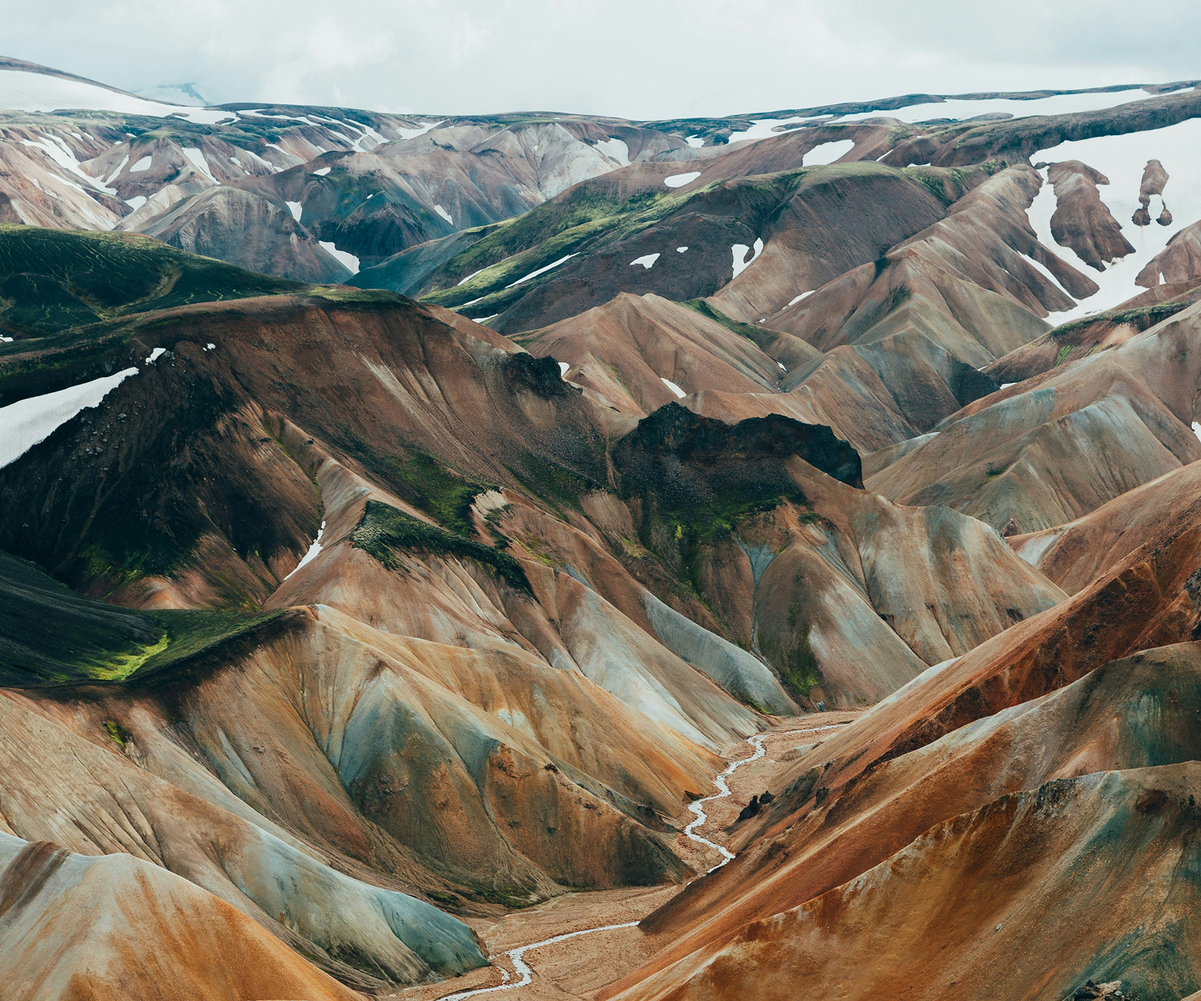
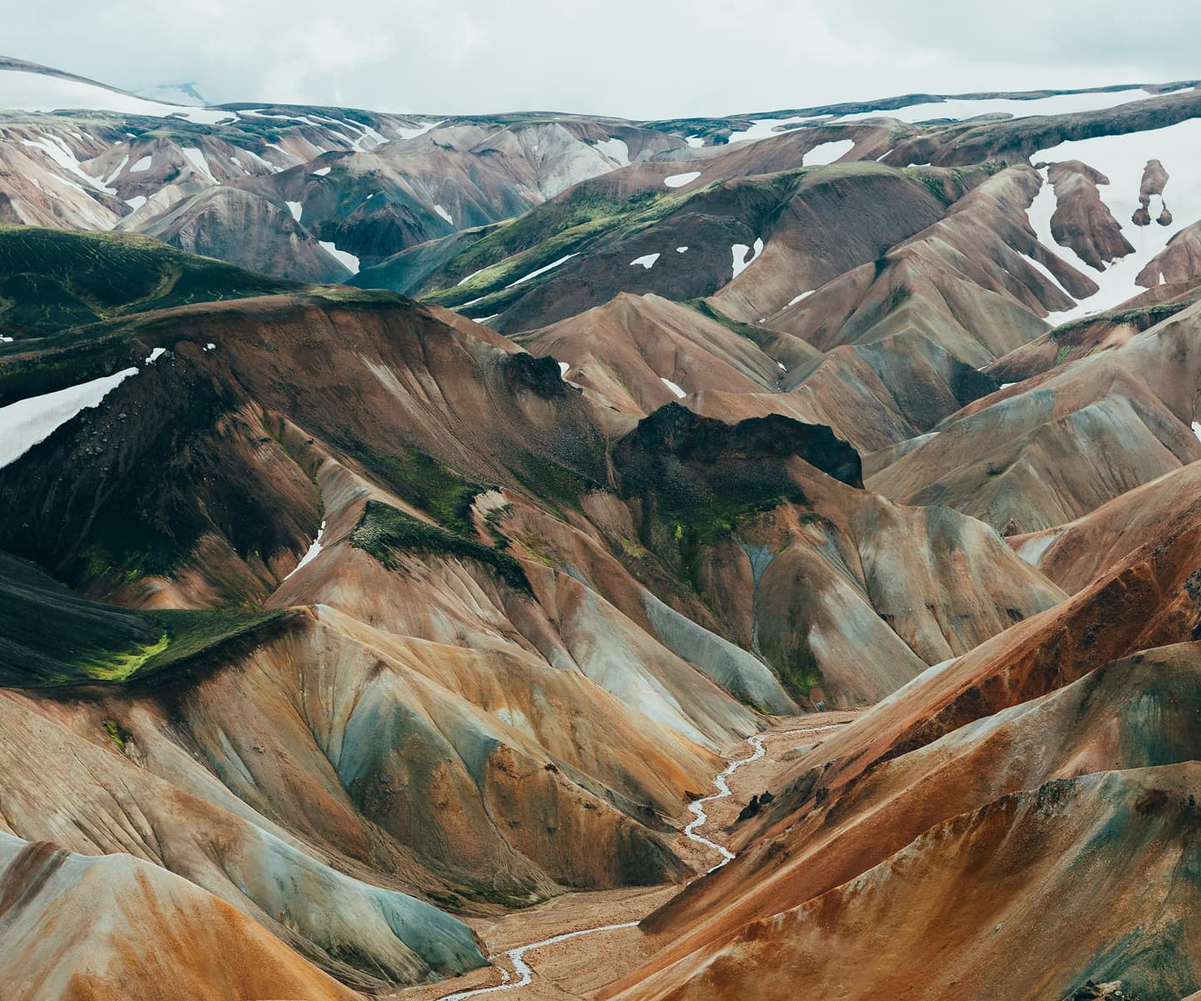
Optimized images and added comments

Changed region(s): [[0.4062, 0.9558, 0.4375, 0.9867]]

diff --git a/assets/css/styles.css b/assets/css/styles.css
@@ -1,1 +1,7 @@
-html{font-family:"DM Sans",sans-serif;scroll-padding-top:40px}body{padding:0;margin:0;box-sizing:border-box}h1,h2,h3,h4,h5,h6{margin:0}a{color:#000;text-decoration:underline}a:hover{text-decoration:none}p{margin:0}ul{margin:0;padding:0;list-style:none}ul li{list-style:none}ul ol{margin:0;padding:0}img{max-width:100%}figure{margin:0}.l-header{display:flex;justify-content:space-between;align-items:center;padding:20px 40px;background:#fff;max-width:1200px;margin:auto}@media screen and (max-width: 800px){.l-header{display:block;padding:15px 20px;position:fixed;top:0;right:0;left:0;box-shadow:rgba(24,17,17,.1) 0px 0px 5px 0px,rgba(0,0,0,.1) 0px 0px 1px 0px;z-index:9999;border-bottom-left-radius:20px;border-bottom-right-radius:20px;box-shadow:0px 6px 4px rgba(0,0,0,.0509803922);height:45px;overflow:hidden;transition:height .2s}.is-view .l-header{height:515px}}.l-header__info__title{font-size:30px;font-weight:400;position:relative;z-index:999}.l-header__info__title a{text-decoration:none}@media screen and (max-width: 800px){.l-header__learn-more{margin-top:50px;padding-bottom:17px}}@media screen and (max-width: 800px){.l-nav__menu-sp{position:static;margin:0 auto;inset:0;background:#fff;align-items:flex-start;height:100%;overflow:hidden}}.l-nav__ul{display:inline-flex;gap:27px;position:fixed;left:50%;transform:translateX(-50%);z-index:99;background-color:hsla(0,0%,100%,.4);backdrop-filter:blur(10px);-webkit-backdrop-filter:blur(10px);border-radius:100px;padding:20px 24px;top:13px}@media screen and (max-width: 800px){.l-nav__ul{position:static;transform:unset;padding:0;background:none;backdrop-filter:none;display:flex;gap:0;height:100%;padding-top:50px;align-items:flex-start;flex-direction:column;justify-content:center}}@media screen and (max-width: 800px){.l-nav__ul__li{border-top:1px solid #e9e9e9;width:100%;padding:30px 0}}.l-nav__ul__li__a{font-size:14px;text-decoration:none;font-weight:bold;color:#000;transition:opacity .3s;letter-spacing:-0.025em}@media screen and (min-width: 1200px){.l-nav__ul__li__a:hover{opacity:.7}}@media screen and (max-width: 800px){.l-nav__menu{position:absolute;height:20px;top:24px;right:20px;z-index:999}}.l-nav__menu__button{background:none;border:none;width:25px}.l-nav__menu__button__line{width:100%;display:block;background:#000;height:2px;position:absolute;left:0;transition:.2s}.l-nav__menu__button__line:nth-child(1){top:.1rem}.l-nav__menu__button__line:nth-child(2){top:50%}.l-nav__menu__button__line:nth-child(3){bottom:0}.is-view .l-nav__menu__button__line:nth-child(1){top:50%;transform:rotate(45deg)}.is-view .l-nav__menu__button__line:nth-child(2){display:none}.is-view .l-nav__menu__button__line:nth-child(3){top:50%;transform:rotate(-45deg)}.l-main{margin-top:60px}@media screen and (max-width: 800px){.l-main{margin-top:120px}}.l-footer{padding-bottom:40px}.l-footer__inner{border-top:1px solid #e9e9e9;padding-top:50px}@media screen and (max-width: 800px){.l-footer__inner{padding:40px 16px 0}}.l-footer__sitemap{display:inline-flex;gap:27px}@media screen and (max-width: 800px){.l-footer__sitemap{flex-direction:column}}.l-footer__sitemap__a{font-size:14px;text-decoration:none;font-weight:bold;color:#000;transition:opacity .3s}@media screen and (min-width: 1200px){.l-footer__sitemap__a:hover{opacity:.7}}.l-footer__details{margin-top:90px;font-family:"Roboto",sans-serif;color:#485c11;display:flex;justify-content:space-between;align-items:flex-end;letter-spacing:.1em}@media screen and (max-width: 800px){.l-footer__details{margin-top:80px;flex-wrap:wrap;row-gap:30px}}.l-footer__details__col1{display:flex;align-items:flex-end;gap:40px}.l-footer__details__col1__area{font-size:11px}.l-footer__details__allrights{font-size:12px}.c-button{color:#fff;font-size:14px;font-weight:bold;text-decoration:none;border-radius:100px;padding:14px 22px;background:#485c11;position:relative;display:inline-flex;align-items:center;gap:5px;transition:background-color .3s,opacity .3s,color .3s}.c-button::after{content:"";background:url("/assets/img/component/btn-icon.svg") no-repeat center center/contain;width:8px;height:8px;right:20px;display:inline-block;transition:transform .3s}@media screen and (min-width: 1200px){.c-button:hover{opacity:.8}.c-button:hover::after{transform:translateY(-10px)}}.c-button.is-secondary{background:#dfecc6;color:#000}.c-button.is-secondary::after{display:none}@media screen and (min-width: 1200px){.c-button.is-secondary:hover{background:#8e9c78;color:#fff}}.c-heading{font-size:12px;font-weight:400;font-family:"Roboto",sans-serif;color:#485c11;line-height:140%;letter-spacing:.1em}.c-heading.is-center{text-align:center}.c-headline{padding:50px 0;font-size:60px;line-height:90%;letter-spacing:-0.03em;font-weight:400;font-family:"Crimson Text",serif}@media screen and (max-width: 800px){.c-headline{padding-bottom:40px;font-size:50px}}.p-index__mv__h1{font-size:160px;font-family:"Crimson Text",serif;font-weight:400;letter-spacing:-0.05em;text-align:center;line-height:85%;opacity:0;transform:translateY(20px);animation:fadeInUp 1320ms 120ms ease forwards}@media screen and (max-width: 800px){.p-index__mv__h1{word-break:break-all;font-size:76px}}@keyframes fadeInUp{to{opacity:1;transform:translateY(0)}}.p-index__mv__visual{position:relative;margin-top:100px;overflow:hidden}@media screen and (max-width: 800px){.p-index__mv__visual{margin-top:70px}}.p-index__mv__visual__img{width:calc(100% - 25px);display:block;max-width:907px;margin:auto;position:relative;z-index:1;animation:toUp 1328ms 150ms ease forwards}@media screen and (max-width: 800px){.p-index__mv__visual__img{max-width:calc(100% - 76px)}}@keyframes toUp{from{transform:translateY(80px)}to{transform:translateY(0)}}.p-index__mv__visual::after{content:"";position:absolute;bottom:0;left:0;background:#8e9c78;width:100%;height:362px;border-radius:30px}.p-index__logo{padding-top:50px}.p-index__logo__txt{font-size:15px;color:#6f6f6f;padding-bottom:30px}.p-index__logo__list{display:flex;flex-wrap:wrap;justify-content:center;gap:40px;padding-bottom:50px;border-bottom:1px solid #e9e9e9}@media screen and (max-width: 800px){.p-index__logo__list{gap:20px 40px}}.p-index__logo__list__item{background:#fff}.p-index__logo__list__item__img{mix-blend-mode:exclusion}.p-index__benefits{padding-top:80px}.p-index__benefits__txt3{font-size:15px;color:#6f6f6f;letter-spacing:.01em}.p-index__benefits__list{display:grid;grid-template-columns:repeat(4, 1fr);gap:20px;margin:90px 0 100px}@media screen and (min-width: 800px)and (max-width: 1200px){.p-index__benefits__list{grid-template-columns:repeat(2, 1fr)}}@media screen and (max-width: 800px){.p-index__benefits__list{grid-template-columns:1fr;gap:60px}}.p-index__benefits__list__item{padding-top:42px;border-top:1px solid #e9e9e9}.p-index__benefits__list__item__name{font-size:18px;font-family:"Crimson Text",serif;line-height:100%;margin:20px 0}.p-index__benefits__list__item__description{font-size:15px;line-height:140%;color:#6f6f6f;letter-spacing:.005em}.p-index__benefits__visual__img{border-radius:30px;width:100%}.p-index__features{font-size:15px;padding-top:120px}@media screen and (max-width: 800px){.p-index__features{padding:120px 17px 0}}.p-index__features__inner{display:grid;grid-template-columns:1fr 1fr;gap:20px;padding-bottom:120px;border-bottom:1px solid #929292}@media screen and (max-width: 1200px){.p-index__features__inner{grid-template-columns:1fr;gap:80px}}.p-index__features__detail{border-top:1px solid #e9e9e9;padding-top:60px}.p-index__features__detail__head{padding:0}.p-index__features__detail__description{margin:40px 0;line-height:140%;color:#6f6f6f}.p-index__features__detail__list{margin-bottom:40px}.p-index__features__detail__list__item{display:flex;gap:30px;padding:20px 0;border-top:1px solid #e9e9e9}.p-index__features__detail__list__item__number{font-weight:bold;color:#6f6f6f}.p-index__features__figure__visual__img{border-radius:30px;width:100%}.p-index__specs{padding-top:80px}.p-index__specs__intro{text-align:center;margin-top:40px}.p-index__specs__intro__txt1{padding:0}.p-index__specs__intro__txt2{font-size:15px;line-height:140%;color:#6f6f6f;margin:40px 0}.p-index__specs__table{font-family:"Roboto",sans-serif;font-size:12px;display:grid;grid-template-columns:repeat(3, 1fr);padding:100px 0 10px}@media screen and (max-width: 800px){.p-index__specs__table{grid-template-columns:repeat(3, minmax(250px, 1fr));overflow-x:scroll;padding-left:10px}}.p-index__specs__table__list.is-active{border-radius:20px;outline:1px solid #e9e9e9;background:#fff;filter:drop-shadow(4px 0 6px rgba(0, 0, 0, 0.0705882353))}.p-index__specs__table__list__title{display:flex;align-items:center;justify-content:center;height:96px}.p-index__specs__table__list__title__h3{font-size:25px;font-weight:500;color:#000}.p-index__specs__table__list__title__img{width:105px}.p-index__specs__table__list__ul{border-top:1px solid #6f6f6f}.p-index__specs__table__list__ul__li{letter-spacing:.1em;display:flex;align-items:center;padding:32px 30px;gap:10px;letter-spacing:.1em}@media screen and (max-width: 1200px){.p-index__specs__table__list__ul__li{padding:32px 20px}}.p-index__specs__table__list__ul__li:not(:last-child),.p-index__specs__table__list__ul__li:not(.is-active .p-index__specs__table__list__ul__li){border-bottom:1px solid #e9e9e9}.has-border-right .p-index__specs__table__list__ul__li{border-right:1px solid #e9e9e9}.p-index__specs__table__list__ul__li::before{content:"";display:inline-block;width:18px;height:18px;mask-position:center;mask-repeat:no-repeat;mask-size:contain;background:#6f6f6f}.p-index__specs__table__list__ul__li.is-check::before{mask-image:url("/assets/img/specs-check.svg")}.p-index__specs__table__list__ul__li.is-x::before{mask-image:url("/assets/img/specs-x.svg")}.is-active .p-index__specs__table__list__ul__li::before{background:#485c11}.p-index__testimonial{padding-top:110px}.p-index__testimonial__inner{display:grid;grid-template-columns:1fr 1fr;gap:20px;padding-bottom:120px;border-bottom:1px solid #e9e9e9}@media screen and (max-width: 1200px){.p-index__testimonial__inner{grid-template-columns:1fr;gap:40px}}.p-index__testimonial__figure__visual__img{border-radius:30px;width:100%}.p-index__testimonial__quote{padding:140px 0 0 50px;border-top:1px solid #e9e9e9}@media screen and (max-width: 1200px){.p-index__testimonial__quote{padding:40px 17px 0}}.p-index__testimonial__quote__txt{font-size:40px;font-family:"Crimson Text",serif;line-height:105%}@media screen and (max-width: 800px){.p-index__testimonial__quote__txt{font-size:32px}}.p-index__testimonial__quote__author{line-height:140%;margin-top:50px;display:flex;flex-direction:column;gap:8px}@media screen and (max-width: 800px){.p-index__testimonial__quote__author{flex-direction:row}}.p-index__testimonial__quote__author__name{font-size:15px}.p-index__testimonial__quote__author__position{font-size:12px;letter-spacing:.05em;font-family:"Roboto",sans-serif;color:#485c11}.p-index__hiws{padding-top:80px}.p-index__hiws__intro{display:flex;justify-content:space-between}@media screen and (max-width: 800px){.p-index__hiws__intro{flex-direction:column;align-items:flex-start;gap:40px}}.p-index__hiws__intro__txt{padding:0}.p-index__hiws__list{display:grid;grid-template-columns:repeat(3, 1fr);gap:20px;margin-top:80px}@media screen and (max-width: 800px){.p-index__hiws__list{grid-template-columns:repeat(3, minmax(250px, 1fr));overflow-x:scroll}}.p-index__hiws__list__item{padding-top:60px;border-top:1px solid #e9e9e9}.p-index__hiws__list__item__num{font-size:80px;line-height:100%;color:#929292;margin-bottom:50px;letter-spacing:-0.04em}.p-index__hiws__list__item__txt1{font-size:18px;font-family:"Crimson Text",serif;margin-bottom:20px;letter-spacing:-0.03em}.p-index__hiws__list__item__txt2{font-size:15px;color:#6f6f6f}.p-index__hiws__figure{padding:140px 0 40px;border-bottom:1px solid #e9e9e9}@media screen and (max-width: 800px){.p-index__hiws__figure{padding:100px 0 40px}}.p-index__hiws__figure__visual__img{border-radius:30px;width:100%}.p-index__cta{padding:120px 0}.p-index__cta__inner{text-align:center;max-width:600px;margin:auto}.p-index__cta__txt1{padding:0}.p-index__cta__txt2{font-size:15px;color:#6f6f6f;margin:40px 0}.p-index__cta__btn{display:flex;justify-content:center}.u-container{margin:0 auto;max-width:1200px;padding:0 40px}@media screen and (max-width: 800px){.u-container{margin:0 15px;padding:0}}.u-container-pc-only{margin:0 auto;max-width:1200px;padding:0 40px}@media screen and (max-width: 800px){.u-container-pc-only{margin:0;padding:0}}@media screen and (max-width: 1200px){.u-display-pc-only{display:none !important}}@media screen and (min-width: 800px){.u-display-sp-only{display:none !important}}@media screen and (min-width: 1200px){.u-display-below-pc-only{display:none !important}}@media screen and (min-width: 800px)and (max-width: 1200px){.u-display-tablet-only{display:none !important}}.u-fadeinup{opacity:0;transform:translateY(20px)}.u-fadeinup.is-animated{animation:fadeInUp 1320ms ease forwards}@keyframes fadeInUp{to{opacity:1;transform:translateY(0)}}/*# sourceMappingURL=styles.css.map */
+/*! 
+   Design : Modern Product Launch 
+   Designer : Figma (Figma Community)
+   Source : https://www.figma.com/community/file/1487309170684591074
+   Coded from scratch by : Bryxx Andre Desalit
+   Github : https://github.com/bryxxd/modern-product-launch
+*/html{font-family:"DM Sans",sans-serif;scroll-padding-top:40px}body{padding:0;margin:0;box-sizing:border-box}h1,h2,h3,h4,h5,h6{margin:0}a{color:#000;text-decoration:underline}a:hover{text-decoration:none}p{margin:0}ul{margin:0;padding:0;list-style:none}ul li{list-style:none}ul ol{margin:0;padding:0}img{max-width:100%}figure{margin:0}.l-header{display:flex;justify-content:space-between;align-items:center;padding:20px 40px;background:#fff;max-width:1200px;margin:auto}@media screen and (max-width: 800px){.l-header{display:block;padding:15px 20px;position:fixed;top:0;right:0;left:0;box-shadow:rgba(24,17,17,.1) 0px 0px 5px 0px,rgba(0,0,0,.1) 0px 0px 1px 0px;z-index:9999;border-bottom-left-radius:20px;border-bottom-right-radius:20px;box-shadow:0px 6px 4px rgba(0,0,0,.0509803922);height:45px;overflow:hidden;transition:height .2s}.is-view .l-header{height:515px}}.l-header__info__title{font-size:30px;font-weight:400;position:relative;z-index:999}.l-header__info__title a{text-decoration:none}@media screen and (max-width: 800px){.l-header__learn-more{margin-top:50px;padding-bottom:17px}}@media screen and (max-width: 800px){.l-nav__menu-sp{position:static;margin:0 auto;inset:0;background:#fff;align-items:flex-start;height:100%;overflow:hidden}}.l-nav__ul{display:inline-flex;gap:27px;position:fixed;left:50%;transform:translateX(-50%);z-index:99;background-color:hsla(0,0%,100%,.4);backdrop-filter:blur(10px);-webkit-backdrop-filter:blur(10px);border-radius:100px;padding:20px 24px;top:13px}@media screen and (max-width: 800px){.l-nav__ul{position:static;transform:unset;padding:0;background:none;backdrop-filter:none;display:flex;gap:0;height:100%;padding-top:50px;align-items:flex-start;flex-direction:column;justify-content:center}}@media screen and (max-width: 800px){.l-nav__ul__li{border-top:1px solid #e9e9e9;width:100%;padding:30px 0}}.l-nav__ul__li__a{font-size:14px;text-decoration:none;font-weight:bold;color:#000;transition:opacity .3s;letter-spacing:-0.025em}@media screen and (min-width: 1200px){.l-nav__ul__li__a:hover{opacity:.7}}@media screen and (max-width: 800px){.l-nav__menu{position:absolute;height:20px;top:24px;right:20px;z-index:999}}.l-nav__menu__button{background:none;border:none;width:25px}.l-nav__menu__button__line{width:100%;display:block;background:#000;height:2px;position:absolute;left:0;transition:.2s}.l-nav__menu__button__line:nth-child(1){top:.1rem}.l-nav__menu__button__line:nth-child(2){top:50%}.l-nav__menu__button__line:nth-child(3){bottom:0}.is-view .l-nav__menu__button__line:nth-child(1){top:50%;transform:rotate(45deg)}.is-view .l-nav__menu__button__line:nth-child(2){display:none}.is-view .l-nav__menu__button__line:nth-child(3){top:50%;transform:rotate(-45deg)}.l-main{margin-top:60px}@media screen and (max-width: 800px){.l-main{margin-top:120px}}.l-footer{padding-bottom:40px}.l-footer__inner{border-top:1px solid #e9e9e9;padding-top:50px}@media screen and (max-width: 800px){.l-footer__inner{padding:40px 16px 0}}.l-footer__sitemap{display:inline-flex;gap:27px}@media screen and (max-width: 800px){.l-footer__sitemap{flex-direction:column}}.l-footer__sitemap__a{font-size:14px;text-decoration:none;font-weight:bold;color:#000;transition:opacity .3s}@media screen and (min-width: 1200px){.l-footer__sitemap__a:hover{opacity:.7}}.l-footer__details{margin-top:90px;font-family:"Roboto",sans-serif;color:#485c11;display:flex;justify-content:space-between;align-items:flex-end;letter-spacing:.1em}@media screen and (max-width: 800px){.l-footer__details{margin-top:80px;flex-wrap:wrap;row-gap:30px}}.l-footer__details__col1{display:flex;align-items:flex-end;gap:40px}.l-footer__details__col1__area{font-size:11px}.l-footer__details__allrights{font-size:12px}.c-button{color:#fff;font-size:14px;font-weight:bold;text-decoration:none;border-radius:100px;padding:14px 22px;background:#485c11;position:relative;display:inline-flex;align-items:center;gap:5px;transition:background-color .3s,opacity .3s,color .3s}.c-button::after{content:"";background:url("/assets/img/component/btn-icon.svg") no-repeat center center/contain;width:8px;height:8px;right:20px;display:inline-block;transition:transform .3s}@media screen and (min-width: 1200px){.c-button:hover{opacity:.8}.c-button:hover::after{transform:translateY(-10px)}}.c-button.is-secondary{background:#dfecc6;color:#000}.c-button.is-secondary::after{display:none}@media screen and (min-width: 1200px){.c-button.is-secondary:hover{background:#8e9c78;color:#fff}}.c-heading{font-size:12px;font-weight:400;font-family:"Roboto",sans-serif;color:#485c11;line-height:140%;letter-spacing:.1em}.c-heading.is-center{text-align:center}.c-headline{padding:50px 0;font-size:60px;line-height:90%;letter-spacing:-0.03em;font-weight:400;font-family:"Crimson Text",serif}@media screen and (max-width: 800px){.c-headline{padding-bottom:40px;font-size:50px}}.p-index__mv__h1{font-size:160px;font-family:"Crimson Text",serif;font-weight:400;letter-spacing:-0.05em;text-align:center;line-height:85%;opacity:0;transform:translateY(20px);animation:fadeInUp 1320ms 120ms ease forwards}@media screen and (max-width: 800px){.p-index__mv__h1{word-break:break-all;font-size:76px}}@keyframes fadeInUp{to{opacity:1;transform:translateY(0)}}.p-index__mv__visual{position:relative;margin-top:100px;overflow:hidden}@media screen and (max-width: 800px){.p-index__mv__visual{margin-top:70px}}.p-index__mv__visual__img{width:calc(100% - 25px);display:block;max-width:907px;margin:auto;position:relative;z-index:1;animation:toUp 1328ms 150ms ease forwards}@media screen and (max-width: 800px){.p-index__mv__visual__img{max-width:calc(100% - 76px)}}@keyframes toUp{from{transform:translateY(80px)}to{transform:translateY(0)}}.p-index__mv__visual::after{content:"";position:absolute;bottom:0;left:0;background:#8e9c78;width:100%;height:362px;border-radius:30px}.p-index__logo{padding-top:50px}.p-index__logo__txt{font-size:15px;color:#6f6f6f;padding-bottom:30px}.p-index__logo__list{display:flex;flex-wrap:wrap;justify-content:center;gap:40px;padding-bottom:50px;border-bottom:1px solid #e9e9e9}@media screen and (max-width: 800px){.p-index__logo__list{gap:20px 40px}}.p-index__logo__list__item{background:#fff}.p-index__logo__list__item__img{mix-blend-mode:exclusion}.p-index__benefits{padding-top:80px}.p-index__benefits__txt3{font-size:15px;color:#6f6f6f;letter-spacing:.01em}.p-index__benefits__list{display:grid;grid-template-columns:repeat(4, 1fr);gap:20px;margin:90px 0 100px}@media screen and (min-width: 800px)and (max-width: 1200px){.p-index__benefits__list{grid-template-columns:repeat(2, 1fr)}}@media screen and (max-width: 800px){.p-index__benefits__list{grid-template-columns:1fr;gap:60px}}.p-index__benefits__list__item{padding-top:42px;border-top:1px solid #e9e9e9}.p-index__benefits__list__item__name{font-size:18px;font-family:"Crimson Text",serif;line-height:100%;margin:20px 0}.p-index__benefits__list__item__description{font-size:15px;line-height:140%;color:#6f6f6f;letter-spacing:.005em}.p-index__benefits__visual__img{border-radius:30px;width:100%}.p-index__features{font-size:15px;padding-top:120px}@media screen and (max-width: 800px){.p-index__features{padding:120px 17px 0}}.p-index__features__inner{display:grid;grid-template-columns:1fr 1fr;gap:20px;padding-bottom:120px;border-bottom:1px solid #929292}@media screen and (max-width: 1200px){.p-index__features__inner{grid-template-columns:1fr;gap:80px}}.p-index__features__detail{border-top:1px solid #e9e9e9;padding-top:60px}.p-index__features__detail__head{padding:0}.p-index__features__detail__description{margin:40px 0;line-height:140%;color:#6f6f6f}.p-index__features__detail__list{margin-bottom:40px}.p-index__features__detail__list__item{display:flex;gap:30px;padding:20px 0;border-top:1px solid #e9e9e9}.p-index__features__detail__list__item__number{font-weight:bold;color:#6f6f6f}.p-index__features__figure__visual__img{border-radius:30px;width:100%}.p-index__specs{padding-top:80px}.p-index__specs__intro{text-align:center;margin-top:40px}.p-index__specs__intro__txt1{padding:0}.p-index__specs__intro__txt2{font-size:15px;line-height:140%;color:#6f6f6f;margin:40px 0}.p-index__specs__table{font-family:"Roboto",sans-serif;font-size:12px;display:grid;grid-template-columns:repeat(3, 1fr);padding:100px 0 10px}@media screen and (max-width: 800px){.p-index__specs__table{grid-template-columns:repeat(3, minmax(250px, 1fr));overflow-x:scroll;padding-left:10px}}.p-index__specs__table__list.is-active{border-radius:20px;outline:1px solid #e9e9e9;background:#fff;filter:drop-shadow(4px 0 6px rgba(0, 0, 0, 0.0705882353))}.p-index__specs__table__list__title{display:flex;align-items:center;justify-content:center;height:96px}.p-index__specs__table__list__title__h3{font-size:25px;font-weight:500;color:#000}.p-index__specs__table__list__title__img{width:105px}.p-index__specs__table__list__ul{border-top:1px solid #6f6f6f}.p-index__specs__table__list__ul__li{letter-spacing:.1em;display:flex;align-items:center;padding:32px 30px;gap:10px;letter-spacing:.1em}@media screen and (max-width: 1200px){.p-index__specs__table__list__ul__li{padding:32px 20px}}.p-index__specs__table__list__ul__li:not(:last-child),.p-index__specs__table__list__ul__li:not(.is-active .p-index__specs__table__list__ul__li){border-bottom:1px solid #e9e9e9}.has-border-right .p-index__specs__table__list__ul__li{border-right:1px solid #e9e9e9}.p-index__specs__table__list__ul__li::before{content:"";display:inline-block;width:18px;height:18px;mask-position:center;mask-repeat:no-repeat;mask-size:contain;background:#6f6f6f}.p-index__specs__table__list__ul__li.is-check::before{mask-image:url("/assets/img/specs-check.svg")}.p-index__specs__table__list__ul__li.is-x::before{mask-image:url("/assets/img/specs-x.svg")}.is-active .p-index__specs__table__list__ul__li::before{background:#485c11}.p-index__testimonial{padding-top:110px}.p-index__testimonial__inner{display:grid;grid-template-columns:1fr 1fr;gap:20px;padding-bottom:120px;border-bottom:1px solid #e9e9e9}@media screen and (max-width: 1200px){.p-index__testimonial__inner{grid-template-columns:1fr;gap:40px}}.p-index__testimonial__figure__visual__img{border-radius:30px;width:100%}.p-index__testimonial__quote{padding:140px 0 0 50px;border-top:1px solid #e9e9e9}@media screen and (max-width: 1200px){.p-index__testimonial__quote{padding:40px 17px 0}}.p-index__testimonial__quote__txt{font-size:40px;font-family:"Crimson Text",serif;line-height:105%}@media screen and (max-width: 800px){.p-index__testimonial__quote__txt{font-size:32px}}.p-index__testimonial__quote__author{line-height:140%;margin-top:50px;display:flex;flex-direction:column;gap:8px}@media screen and (max-width: 800px){.p-index__testimonial__quote__author{flex-direction:row}}.p-index__testimonial__quote__author__name{font-size:15px}.p-index__testimonial__quote__author__position{font-size:12px;letter-spacing:.05em;font-family:"Roboto",sans-serif;color:#485c11}.p-index__hiws{padding-top:80px}.p-index__hiws__intro{display:flex;justify-content:space-between}@media screen and (max-width: 800px){.p-index__hiws__intro{flex-direction:column;align-items:flex-start;gap:40px}}.p-index__hiws__intro__txt{padding:0}.p-index__hiws__list{display:grid;grid-template-columns:repeat(3, 1fr);gap:20px;margin-top:80px}@media screen and (max-width: 800px){.p-index__hiws__list{grid-template-columns:repeat(3, minmax(250px, 1fr));overflow-x:scroll}}.p-index__hiws__list__item{padding-top:60px;border-top:1px solid #e9e9e9}.p-index__hiws__list__item__num{font-size:80px;line-height:100%;color:#929292;margin-bottom:50px;letter-spacing:-0.04em}.p-index__hiws__list__item__txt1{font-size:18px;font-family:"Crimson Text",serif;margin-bottom:20px;letter-spacing:-0.03em}.p-index__hiws__list__item__txt2{font-size:15px;color:#6f6f6f}.p-index__hiws__figure{padding:140px 0 40px;border-bottom:1px solid #e9e9e9}@media screen and (max-width: 800px){.p-index__hiws__figure{padding:100px 0 40px}}.p-index__hiws__figure__visual__img{border-radius:30px;width:100%}.p-index__cta{padding:120px 0}.p-index__cta__inner{text-align:center;max-width:600px;margin:auto}.p-index__cta__txt1{padding:0}.p-index__cta__txt2{font-size:15px;color:#6f6f6f;margin:40px 0}.p-index__cta__btn{display:flex;justify-content:center}.u-container{margin:0 auto;max-width:1200px;padding:0 40px}@media screen and (max-width: 800px){.u-container{margin:0 15px;padding:0}}.u-container-pc-only{margin:0 auto;max-width:1200px;padding:0 40px}@media screen and (max-width: 800px){.u-container-pc-only{margin:0;padding:0}}@media screen and (max-width: 1200px){.u-display-pc-only{display:none !important}}@media screen and (min-width: 800px){.u-display-sp-only{display:none !important}}@media screen and (min-width: 1200px){.u-display-below-pc-only{display:none !important}}@media screen and (min-width: 800px)and (max-width: 1200px){.u-display-tablet-only{display:none !important}}.u-fadeinup{opacity:0;transform:translateY(20px)}.u-fadeinup.is-animated{animation:fadeInUp 1320ms ease forwards}@keyframes fadeInUp{to{opacity:1;transform:translateY(0)}}/*# sourceMappingURL=styles.css.map */

diff --git a/index.html b/index.html
@@ -217,7 +217,7 @@
                                         operation.</span>
                                 </li>
                             </ul>
-                            <a class="c-button is-secondary" href="#">Discover More</a>
+                            <a class="c-button is-secondary" href="https://www.figma.com/sites/" target="_blank">Discover More</a>
                         </div>
                         <figure class="p-index__features__figure">
                             <picture class="p-index__features__figure__visual">
@@ -243,7 +243,7 @@
                             A developer-friendly approach to
                             <br class="u-display-pc-only" />streamline your business.
                         </p>
-                        <a class="c-button is-secondary" href="#">Discover More</a>
+                        <a class="c-button is-secondary" href="https://www.figma.com/sites/" target="_blank">Discover More</a>
                     </div>
                 </div>
                 <div class="u-container-pc-only">
@@ -363,7 +363,7 @@
                         <p class="p-index__hiws__intro__txt c-headline">
                             Map Your Success
                         </p>
-                        <a class="c-button is-secondary" href="#">Discover More</a>
+                        <a class="c-button is-secondary" href="https://www.figma.com/sites/" target="_blank">Discover More</a>
                     </div>
                     <div class="p-index__hiws__list">
                         <div class="p-index__hiws__list__item">

diff --git a/assets/scss/styles.scss b/assets/scss/styles.scss
@@ -1,3 +1,11 @@
+/*! 
+   Design : Modern Product Launch 
+   Designer : Figma (Figma Community)
+   Source : https://www.figma.com/community/file/1487309170684591074
+   Coded from scratch by : Bryxx Andre Desalit
+   Github : https://github.com/bryxxd/modern-product-launch
+*/
+
 // declared variable
 @use 'foundation/value' as *;
 
